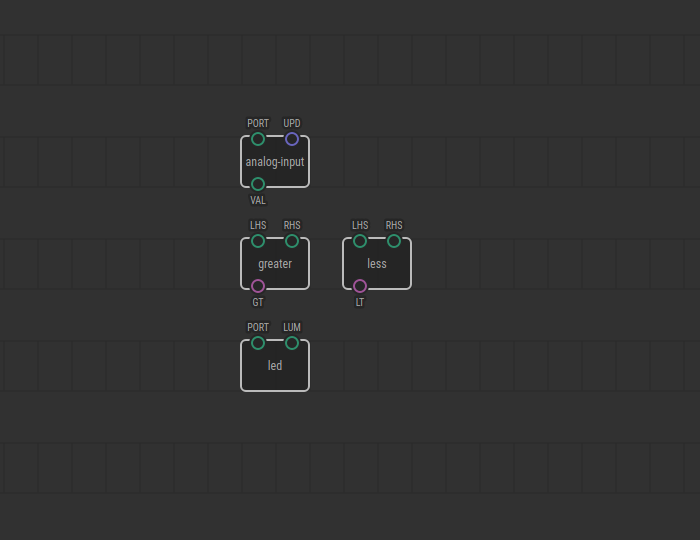
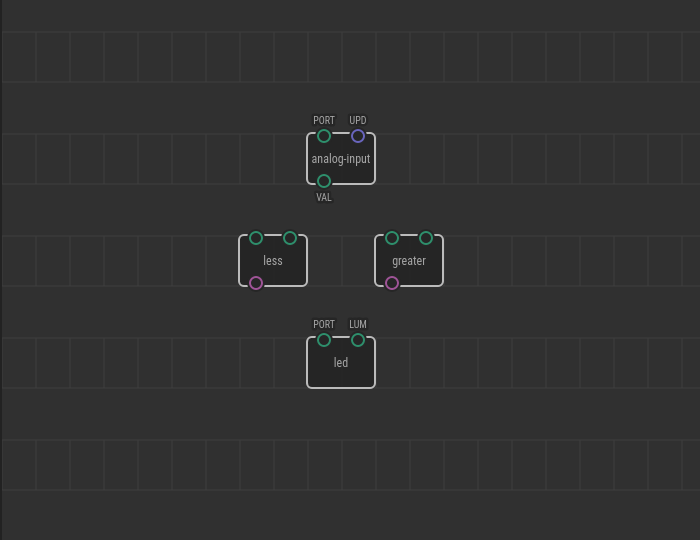
doc(tutorial): tweak texts to match new labeling scheme for variadic nodes

diff --git a/docs/tutorial/10-math/README.md b/docs/tutorial/10-math/README.md
@@ -23,7 +23,7 @@ Let’s try to do some math.
 ![Patch](./patch.png)
 
 As you can guess, the `multiply` node transfers the result of the multiplication
-of the numbers from the `X` and `Y` pins to the `PROD` pin.
+of the numbers from the input pins (`IN1` and `IN2`) to the output pin.
 
 In `xod/core`, you will find nodes for different mathematical and trigonometric
 calculations. Along with the `multiply` node, you will find `add`, `subtract`,
@@ -43,15 +43,15 @@ The circuit is the same as for the previous lesson.
 ## How-to
 
 1. Add a new `multiply` or another math node to the patch.
-2. Link its `X` input to the first value provider.
-3. Set the `Y` input value with the Inspector or link it to an output too.
+2. Link its left input to the first value provider.
+3. Set the right input value with the Inspector or link it to an output too.
 
 ![Screencast](./screencast.gif)
 
 Turn the potentiometer knob. If you have followed the example. The LED on port
 11 will reach the maximum brightness with a half-turn of the knob. This happens
-because the `multiply` node multiplied the values of `X` and `Y`, and
-transferred them to the `PROD` pin. As `Y` was set to 2 in the Inspector, the
-value of the `pot` node doubles before reaching the `LUM` pin of LED2.
+because the `multiply` node multiplied the input values and transferred them to
+the `OUT` pin. As `IN2` was set to 2 in the Inspector, the value of the `pot`
+node doubles before reaching the `LUM` pin of LED2.
 
 [Next lesson →](../11-servo/)

diff --git a/docs/tutorial/18-comparisons/README.md b/docs/tutorial/18-comparisons/README.md
@@ -22,8 +22,9 @@ mathematical comparisons. They are in `xod/core`.
 
 ![Patch](./patch.png)
 
-The `LHS` and `RHS` pins receive numbers to compare, and output pins return
-the comparison result expressed as a boolean value (true or false).
+The left `IN1` and right `IN2` pins receive numbers to compare, and the output
+`OUT` pin returns the comparison result expressed as a boolean value (true or
+false).
 
 ## Test circuit
 
@@ -40,15 +41,15 @@ The circuit is the same as for the previous lesson.
 
 * Place a `xod/core/less` (or `greater`) node to trigger an action when
   a measured parameter goes under (or over) a threshold value.
-* Use the `LHS` pin to link the value measured.
-* Set the threshold as the `RHS` pin value.
+* Use the left pin to link the value measured.
+* Set the threshold as the right pin value.
 * In cases where figuring out the proper threshold is tricky use a value
   from a potentiometer to adjust it dynamically.
 
 ![Screencast](./screencast.gif)
 
 In the example shown, if the `analog-input` node (our photoresistor) returns a
-value greater than the threshold, the `greater` node will set the `GT` pin to
+value greater than the threshold, the `greater` node will set the `OUT` pin to
 `true`, and the LED will turn on.
 
 [Next lesson →](../19-if-else/)

diff --git a/docs/tutorial/28-string-concat/README.md b/docs/tutorial/28-string-concat/README.md
@@ -12,7 +12,7 @@ The `concat` node will help us solve this problem.
 ![Patch](./patch.png)
 
 Concat allows you to merge two strings into one. The new string will have the
-input to the `HEAD` pin placed in the beginning and the input to the `TAIL` pin
+input to the left pin placed in the beginning and the input to the right pin
 placed at the end.
 
 ## Test circuit
@@ -29,9 +29,9 @@ placed at the end.
 2. Assign string values to each node using the Inspector. Try something like
    “Temp: ” and “Light: ” to keep things short. Put a space at the end
    so that when we combine it with another string they won't bunch up.
-3. Link the `VAL` pins of the `constant-string` nodes to the `HEAD` pins of the
-   `concat` nodes. `HEAD` is the beginning of the line, it’s the first part.
-4. Link the outputs of the thermometer and photoresistor to the `TAIL` pins on
+3. Link the `VAL` pins of the `constant-string` nodes to the left pins of the
+   `concat` nodes. The `IN1` is the beginning of the line, it’s the first part.
+4. Link the outputs of the thermometer and photoresistor to the right pins on
    the `concat` nodes. They will be the second part of the generated string.
 5. Upload the patch to the Arduino.
 

diff --git a/docs/tutorial/16-logic/README.md b/docs/tutorial/16-logic/README.md
@@ -18,9 +18,9 @@ in `xod/core`.
 
 ![Patch](./patch.png)
 
-* `and` returns `true` if both A *and* B are `true`
-* `or` returns `true` if A, B, or both are `true`
-* `xor` returns `true` if only one of A and B is `true`
+* `and` returns `true` if both inputs (`IN1` *and* `IN2`) are `true`
+* `or` returns `true` if `IN1`, `IN2`, or both are `true`
+* `xor` returns `true` if only one of `IN1` and `IN2` is `true`
 * `not` inverts the input value
 * `nand` is an inverted `and`
 * `nor` is an inverted `or`
